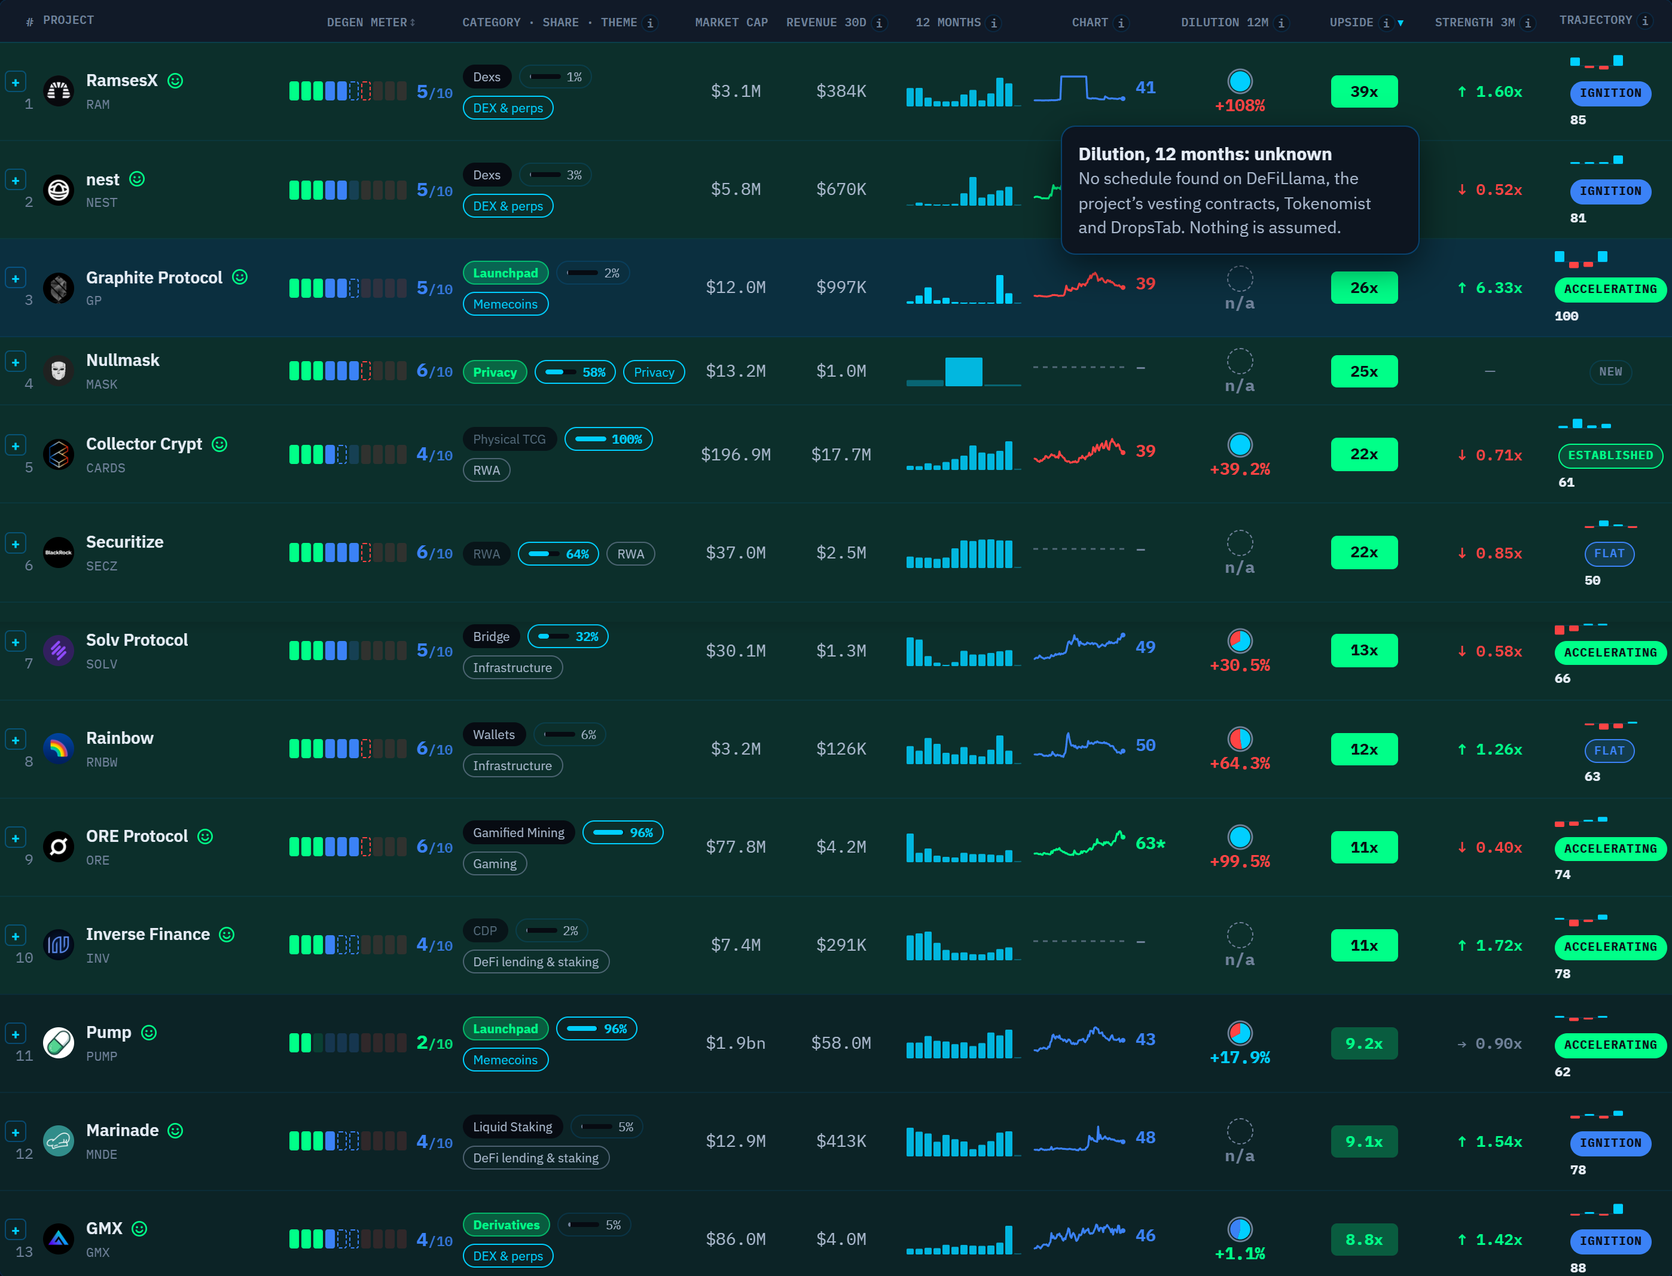
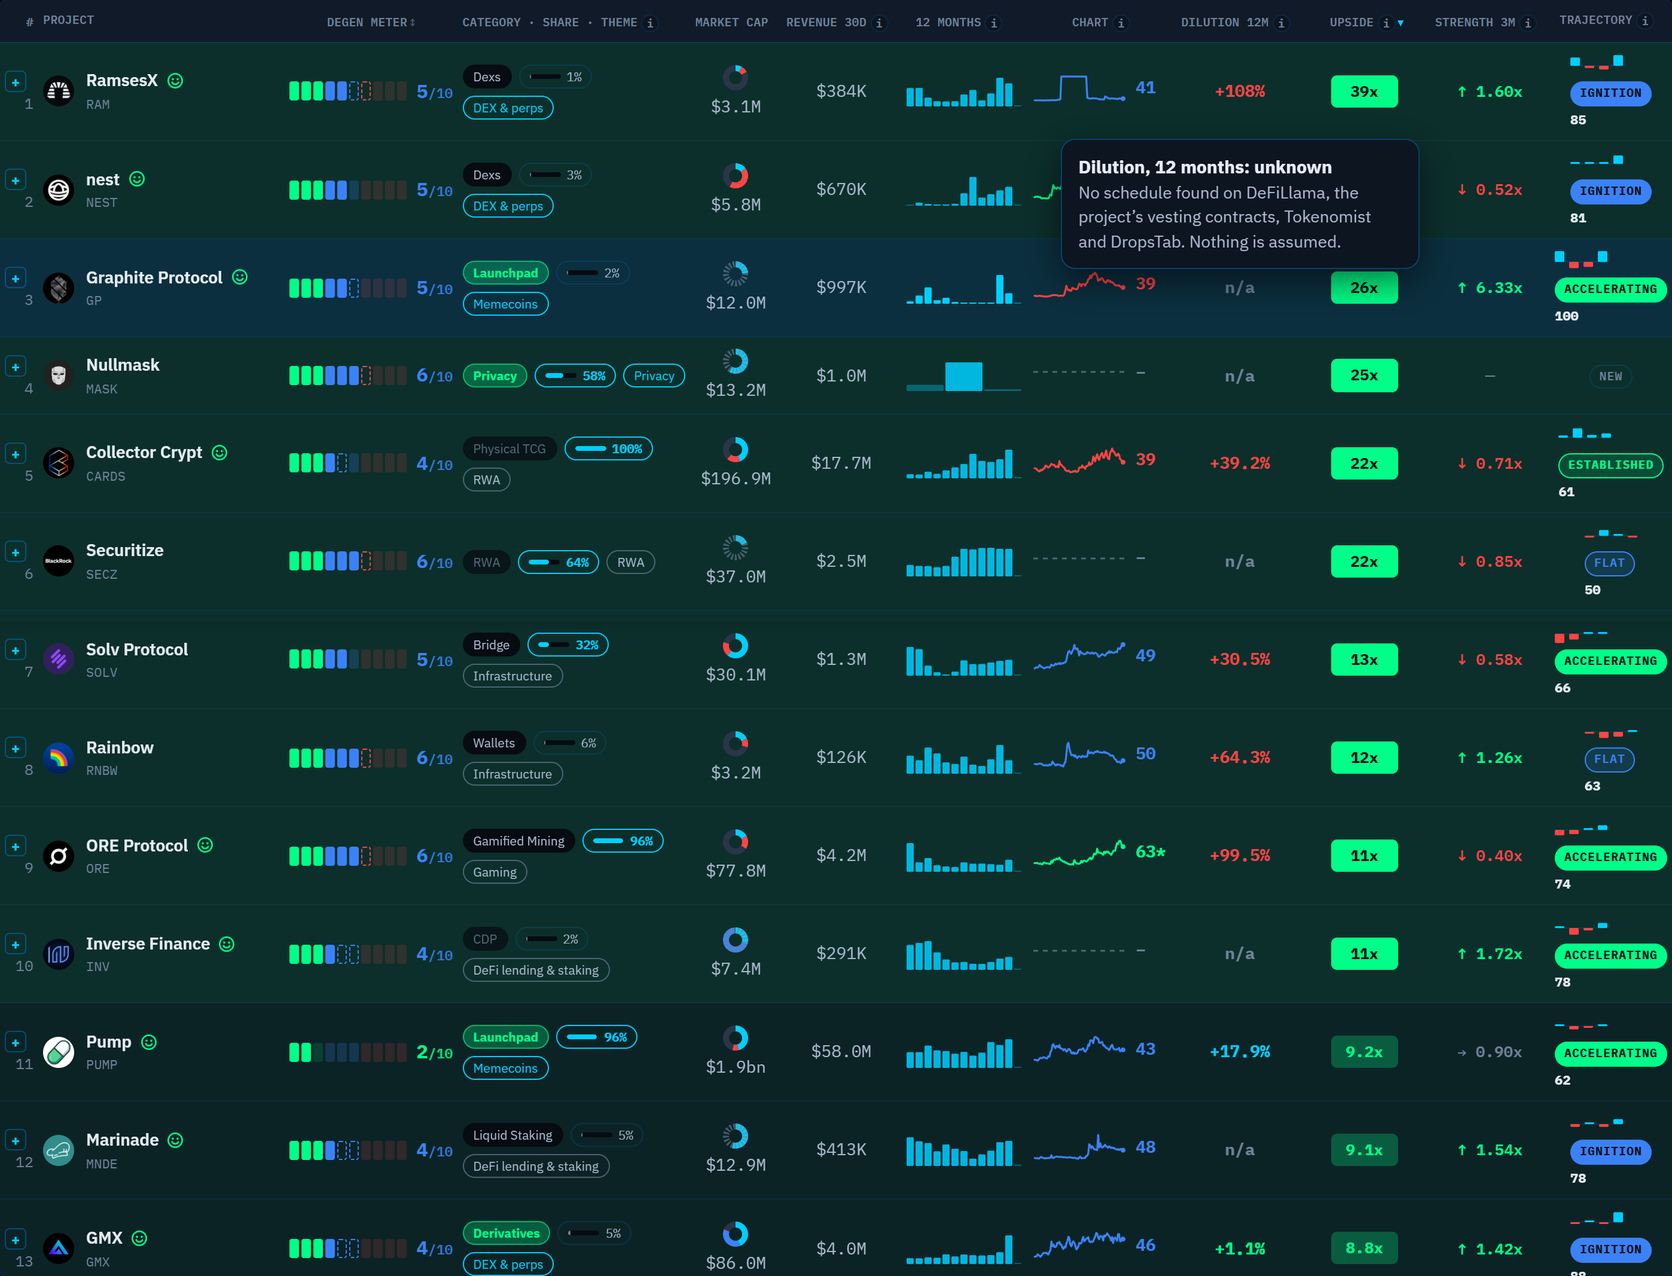
Supply Analyzer request, the operator's corrections: one pie of the whole supply in place of the three tiles, on the coin panel and on the Supply Analyzer page, which the local copy now draws; the same pie small in the Market Cap column, and Dilution 12M is its number alone. Three pictures. Not file

diff --git a/outbox/supply-analyzer-sources/patch_page.js b/outbox/supply-analyzer-sources/patch_page.js
@@ -1,0 +1,107 @@
+
+  // ---- The request on the Supply Analyzer page itself. Goes inside their script, before boot(). The same one pie as the Gem Screener's
+  // card, from the same record; the source named on Next unlock. Their socket is not proxied, so the record comes from their analyze GET.
+  var MOCK = window.SA_MOCK || {sources: {}, finished: {}, dropstab: {}, read: ''};
+  subscribe = function (push) {
+    try { history[push ? 'pushState' : 'replaceState'](null, '', urlFor()); } catch (e) {}
+    state.rec = null; state.idx = 0; state.series = null;
+    showState('Reading the sources', 'Supply, schedule, staking and buybacks are read from public feeds and the project\'s own pages. A token read before opens at once.');
+    var q = state.contract ? 'contract=' + encodeURIComponent(state.contract) + (state.chain ? '&chain=' + encodeURIComponent(state.chain) : '') : 'symbol=' + encodeURIComponent(state.sym);
+    fetch('/api/v1/supply-analyzer/analyze?' + q, {credentials: 'omit'})
+      .then(function (r) { return r.json(); })
+      .then(function (m) {
+        if (state.view === 'start') return;
+        live('on', 'live · last read ' + String(m.refreshed_at || '').slice(0, 10));
+        render(m);
+      })
+      .catch(function () { showProblem({code: 'UNKNOWN', title: 'Not read', message: 'The copy could not read this token.'}); });
+  };
+
+  function partsOf(rec) {
+    var T = rec.tiles || {}, c = T.circulating || {}, d = T.dilution_12m, sl = {};
+    (rec.slices_today || []).forEach(function (x) { sl[x.key] = x.amount || 0; });
+    var out = c.tokens || (sl.free || 0) + (sl.staked_free || 0) + (sl.staked_locked || 0);
+    var staked = Math.min((sl.staked_free || 0) + (sl.staked_locked || 0), out), kept = Math.min(sl.bb_kept || 0, out - staked), whole = c.of;
+    var slug = (rec.token || {}).slug, parts = [
+      {label: (rec.unknown_names || []).indexOf('staking') >= 0 ? 'In circulation' : 'Free to sell', v: out - staked - kept, c: '#00cfff'},
+      {label: 'Staked', v: staked, c: '#3b82f6'},
+      {label: 'Bought back, kept', v: kept, c: '#00ff88'}
+    ].filter(function (p) { return p.v > 0; });
+    if (!whole || whole <= out * 1.001) return {parts: parts, open: !whole};
+    var rest = whole - out;
+    if (d && typeof d.pct === 'number') {
+      var soon = Math.min(d.new_tokens_12m || 0, rest);
+      if (soon > 0) parts.push({label: 'Coming in 12 months', v: soon, c: '#ff4444'});
+      if (rest - soon > 0) parts.push({label: 'After that, or never issued', v: rest - soon, c: '#2a3648'});
+    } else {
+      parts.push({label: MOCK.finished[slug] ? 'Not out, schedule finished' : 'Not out yet, no schedule', v: rest, c: '#7f93ad', dashed: true});
+    }
+    return {parts: parts, open: false};
+  }
+  function pieTile(rec) {
+    var T = rec.tiles || {}, c = T.circulating || {}, f = T.fdv, d = T.dilution_12m, slug = (rec.token || {}).slug, sym = (rec.token || {}).symbol || '';
+    var P = partsOf(rec), total = P.parts.reduce(function (n, p) { return n + p.v; }, 0), R = 44, C = 2 * Math.PI * R, at = 0;
+    var arcs = P.parts.map(function (p) {
+      var len = C * p.v / total, gap = P.parts.length > 1 ? Math.min(1.5, len / 3) : 0;
+      var dash = p.dashed ? 'style="stroke-dasharray:3 3;opacity:.55"' : 'stroke-dasharray="' + (len - gap).toFixed(2) + ' ' + (C - len + gap).toFixed(2) + '"';
+      var arc = '<circle cx="60" cy="60" r="' + R + '" fill="none" stroke="' + p.c + '" stroke-width="15" ' + dash + ' stroke-dashoffset="' + (-at).toFixed(2) + '"/>';
+      at += len;
+      return arc;
+    }).join('');
+    var rows = P.parts.map(function (p) {
+      return '<li><i style="background:' + p.c + (p.dashed ? ';opacity:.55' : '') + '"></i><span>' + p.label + '</span><b>' + tok(p.v) + '</b></li>';
+    }).join('');
+    var pctOut = typeof c.pct === 'number' ? (c.pct >= 99.95 ? '100%' : c.pct.toFixed(1) + '%') : '–';
+    var fdv = f && f.market_cap_usd && f.fdv_usd ? '<div class="sa-fdv"><span>Market cap</span><b>' + usd(f.market_cap_usd) + '</b><span>FDV</span><b class="' + (f.x >= 3 ? 'v-bad' : f.x <= 1.5 ? 'v-good' : '') + '">' + usd(f.fdv_usd) + (typeof f.x === 'number' ? ' · ' + f.x.toFixed(1) + '×' : '') + '</b></div>' : '';
+    var done = MOCK.finished[slug], drop = MOCK.dropstab[slug], tbd = rec.unlocks_tbd, say = '', num = 'n/a', cls = 'v-na';
+    if (d && typeof d.pct === 'number') {
+      num = d.at_max ? '0%' : pct(d.pct, true);
+      cls = d.pct >= 25 ? 'v-bad' : d.pct < 5 ? 'v-good' : 'v-caution';
+      say = d.at_max ? 'Max supply is reached.' : tok(d.month_tokens) + ' new ' + sym + ' a month' + ((d.kinds || []).length ? ' · ' + d.kinds.join(' + ') : '') + (d.source ? ', to ' + d.until + '. Source: ' + d.source + ', read ' + MOCK.read + '.' : '');
+    } else if (done) {
+      say = 'The published schedule finished in ' + done + '.';
+    } else if (drop) {
+      say = 'Schedule found on DropsTab; the figure comes with the build.';
+    } else {
+      say = 'No schedule found on DeFiLlama, the project’s vesting contracts, Tokenomist and DropsTab. Nothing is assumed.';
+    }
+    var tile = el('div', 'sa-tile sa-pie sa-wide sa-on-page');
+    tile.setAttribute('data-k', 'circ');
+    tile.innerHTML = '<div class="sa-tk">Circulating, FDV, dilution</div><div class="sa-wrap"><div class="sa-ringbox"><svg viewBox="0 0 120 120" role="img">' + arcs + '</svg><div class="sa-center"><b>' + pctOut + '</b><span>is out</span></div></div>' +
+      '<div class="sa-side"><ul class="sa-legend">' + rows + '</ul>' + fdv + '<div class="sa-fdv"><span>Dilution, 12 months</span><b class="' + cls + '">' + num + '</b></div><p class="sa-note">' + say + '</p>' +
+      (P.open ? '<p class="sa-note">No max supply: what is still to come cannot be drawn.</p>' : '') + '</div></div>';
+    return tile;
+  }
+  var tilesAsServed = renderTiles;
+  renderTiles = function (rec) {
+    tilesAsServed(rec);
+    var box = $('saTiles'), first = box.querySelector('[data-k="circ"]');
+    if (first) box.replaceChild(pieTile(rec), first);
+    ['fdv', 'dil'].forEach(function (k) { var t = box.querySelector('[data-k="' + k + '"]'); if (t) t.remove(); });
+    box.classList.remove('sa-n2', 'sa-n3');
+    box.classList.add('sa-n' + box.children.length);
+    box.removeAttribute('data-n');
+    // the month chart below can't be redrawn here without the whole schedule: it says what the build does instead of "no schedule"
+    var found = ((rec.tiles || {}).dilution_12m || {}).source;
+    if (found) setTimeout(function () {
+      [].slice.call(document.querySelectorAll('.sa-out *')).forEach(function (n) {
+        if (n.children.length) return;
+        if (/No schedule published: no vesting schedule/.test(n.textContent)) n.textContent = 'Schedule from ' + found + ': with the build, the months ahead are drawn from it.';
+        else if (/no schedule published/i.test(n.textContent)) n.textContent = n.textContent.replace(/\s*[·-]?\s*no schedule published/i, ' · schedule from ' + found);
+      });
+    }, 0);
+  };
+  var nextAsServed = renderNext;
+  renderNext = function (rec) {
+    var T = rec.tiles || {}, nu = T.next_unlock_row || {}, slug = (rec.token || {}).slug;
+    if (nu.kind === 'unknown') {
+      var done = MOCK.finished[slug], drop = MOCK.dropstab[slug];
+      nu.why = done ? 'The published schedule finished in ' + done + '.' : drop ? 'Schedule found on DropsTab; the figure comes with the build.' : 'No schedule found on DeFiLlama, the project’s vesting contracts, Tokenomist and DropsTab. Nothing is assumed.';
+    }
+    nextAsServed(rec);
+    if (nu.source) $('saNext').appendChild(el('div', 'sa-src', 'Source: ' + nu.source + ', read ' + MOCK.read));
+    if (nu.kind === 'unknown') {
+      var line = [].slice.call($('saNext').querySelectorAll('*')).filter(function (n) { return !n.children.length && /No vesting or unlock schedule/.test(n.textContent); })[0];
+      if (line) line.textContent = nu.why;
+    }
+  };

diff --git a/outbox/supply-analyzer-sources/patch.js b/outbox/supply-analyzer-sources/patch.js
@@ -117,12 +117,12 @@
     const pct = typeof c.pct === 'number' ? c.pct : (whole ? 100 * out / whole : null);
     return pie(parts, pct === null ? esc(saTok(out)) : (pct >= 99.95 ? '100%' : pct.toFixed(1) + '%'), pct === null ? 'out' : 'is out', '', open ? 'No max supply: what is still to come cannot be drawn.' : '');
   }
-  function fdvPie(sp) {
+  // Market cap over FDV is circulating over the whole supply at one price: the same picture, so it is two lines under that pie
+  function fdvLines(sp) {
     const f = (sp.tiles || {}).fdv;
-    if (!f || !f.market_cap_usd || !f.fdv_usd) return pie([], 'n/a', '', 'v-na', 'No market cap stated.');
-    const cap = Math.min(f.market_cap_usd, f.fdv_usd), cls = saFdvCls(f.x);
-    return pie([{label: 'Market cap', v: cap, c: 'var(--accent)', shown: saUsd(f.market_cap_usd)},
-      {label: 'Rest of FDV', v: Math.max(f.fdv_usd - cap, 0), c: FILL[cls] || 'var(--line, #2a3648)', shown: saUsd(f.fdv_usd - cap)}], f.x.toFixed(1) + '×', 'FDV to cap', cls);
+    if (!f || !f.market_cap_usd || !f.fdv_usd) return '';
+    const cls = saFdvCls(f.x);
+    return `<div class="sa-fdv"><span>Market cap</span><b>${esc(saUsd(f.market_cap_usd))}</b><span>FDV</span><b class="${cls}">${esc(saUsd(f.fdv_usd))}${typeof f.x === 'number' ? ` · ${f.x.toFixed(1)}×` : ''}</b></div>`;
   }
   function dilPie(sp, e) {
     const d = saDil(sp), circ = ((sp.tiles || {}).circulating || {}).tokens, done = finished(e), drop = SA_MOCK.dropstab[e.slug];
@@ -154,10 +154,53 @@
       tile.classList.add('sa-pie');
       tile.insertAdjacentHTML('beforeend', inner + mark);
     };
-    fill('circ', circPie(sp), N(10));
-    fill('fdv', fdvPie(sp), '');
-    fill('dil', dilPie(sp, e), '');
+    // one pie: market cap over FDV is circulating over the whole supply, and dilution is the pie's red part over its blue
+    fill('circ', onePie(sp, e), N(10));
+    const head = box.querySelector('.satile[data-k="circ"] .sk');
+    if (head) head.textContent = 'Circulating, FDV, dilution';
+    ['fdv', 'dil'].forEach(k => { const t = box.querySelector(`.satile[data-k="${k}"]`); if (t) t.remove(); });
+    const wide = box.querySelector('.satile[data-k="circ"]');
+    if (wide) wide.classList.add('sa-wide');
+    const grid = box.querySelector('.satiles');
+    if (grid) { grid.classList.remove('n4'); grid.classList.add('sa-n' + grid.children.length); }
     return box.innerHTML;
+  };
+  function onePie(sp, e) {
+    const dil = dilPie(sp, e), note = (dil.match(/<p class="sa-note">([\s\S]*?)<\/p>/) || [])[1] || '';
+    const center = (dil.match(/<div class="sa-center ([^"]*)"><b>([^<]*)<\/b>/) || []);
+    const row = `<div class="sa-fdv"><span>Dilution, 12 months</span><b class="${center[1] || ''}">${center[2] || 'n/a'}</b></div>`;
+    const bits = circPie(sp).split('<ul class="sa-legend">');
+    return `<div class="sa-wrap">${bits[0]}<div class="sa-side"><ul class="sa-legend">${bits[1] || '</ul>'}${fdvLines(sp)}${row}${note ? `<p class="sa-note">${note}</p>` : ''}</div></div>`;
+  }
+
+  // ---- 4, 11 the pie moves to the Market Cap column; Dilution 12M is its number alone
+  const pieCell = supplyCell;
+  supplyCell = e => pieCell(e).replace(/<svg class="spie"[\s\S]*?<\/svg>/, '').replace('<span class="sa-ring" aria-hidden="true"></span>', '');
+  function miniPie(sp) {
+    const {parts} = donutParts(sp), total = parts.reduce((n, p) => n + p.v, 0), R = 8, C = 2 * Math.PI * R;
+    if (!total) return '';
+    let at = 0;
+    return `<svg class="sa-mini" viewBox="0 0 22 22" width="22" height="22" aria-hidden="true">` + parts.map(p => {
+      const len = C * p.v / total;
+      const dash = p.dashed ? 'style="stroke-dasharray:1.5 1.5;opacity:.6"' : `stroke-dasharray="${len.toFixed(2)} ${(C - len).toFixed(2)}"`;
+      const arc = `<circle cx="11" cy="11" r="${R}" fill="none" stroke="${p.c}" stroke-width="5" ${dash} stroke-dashoffset="${(-at).toFixed(2)}"/>`;
+      at += len;
+      return arc;
+    }).join('') + '</svg>';
+  }
+  const listWithoutPie = renderList;
+  renderList = function () {
+    listWithoutPie();
+    const at = cols().findIndex(c => c.key === 'mcap');
+    if (at < 0) return;
+    document.querySelectorAll(`#${isChainsView() ? 'tbl-chains' : 'tbl-apps'} tbody tr[data-id]`).forEach(tr => {
+      const e = findEntity(tr.dataset.id), sp = e && supplyOf(e), td = tr.children[at];
+      if (!sp || !td || td.querySelector('.sa-capcell')) return;
+      const c = (sp.tiles || {}).circulating || {}, f = (sp.tiles || {}).fdv || {};
+      const say = [typeof c.pct === 'number' ? (c.pct >= 99.95 ? '100' : c.pct.toFixed(1)) + '% of the supply is out.' : '',
+        f.fdv_usd ? `FDV ${saUsd(f.fdv_usd)}${typeof f.x === 'number' ? ', ' + f.x.toFixed(1) + '× the market cap' : ''}.` : ''].filter(Boolean).join(' ');
+      td.innerHTML = `<span class="sa-capcell tipme"${tipAttrs('Market cap ' + td.textContent.trim(), say || 'No supply figures.')}>${miniPie(sp)}<span>${td.innerHTML}${N(11)}</span></span>`;
+    });
   };
 
   // ---- the box: where each one is. Ours only, it never goes in a picture for them
@@ -187,7 +230,9 @@
     [6, 'Column: Jupiter, schedule finished', () => inApps('jupiter')],
     [7, 'Column: where it looked', () => inApps(firstNone())],
     [8, 'Column: Lombard reads its schedule', () => inApps('lombard')],
-    [10, 'Supply card: three pies in place of the tiles', () => { setView('start'); openPanel((APPS.find(a => a.slug === 'up') || {}).key); setTimeout(() => flash(document.querySelector('#panel #supplyCard')), 1500); }],
+    [11, 'Market Cap column: the same pie, small', () => { closeIt(); setView('apps'); setTimeout(() => flash(document.querySelector('.sa-capcell')), 300); }],
+    [12, 'The Supply Analyzer page itself', () => { location.href = '/supply-analyzer?symbol=collector-crypt'; }],
+    [10, 'Supply card: one pie in place of three tiles', () => { setView('start'); openPanel((APPS.find(a => a.slug === 'up') || {}).key); setTimeout(() => flash(document.querySelector('#panel #supplyCard')), 1500); }],
   ];
   setTimeout(() => {
     const box = document.createElement('aside');

diff --git a/outbox/supply-analyzer-sources/patch.css b/outbox/supply-analyzer-sources/patch.css
@@ -20,6 +20,26 @@ body.gt-clean .gt-n, body.gt-clean #gtTour { display: none !important; }
 .sa-legend b { font: 600 12px/1.25 "IBM Plex Mono", var(--mono, monospace); color: var(--ink); white-space: nowrap; }
 .satile.sa-pie p.sa-note { margin: 8px 0 0; font-size: 11px; line-height: 1.3; color: var(--muted); }
 .satile.sa-pie > .gt-n { position: absolute; top: 8px; right: 6px; }
+.sa-fdv { display: grid; grid-template-columns: minmax(0, 1fr) auto; gap: 5px 8px; margin-top: 10px; padding-top: 9px; border-top: 1px solid var(--rule, rgba(255, 255, 255, .08)); font-size: 12px; color: var(--muted); }
+.sa-fdv b { font: 600 12px/1.25 "IBM Plex Mono", var(--mono, monospace); color: var(--ink); text-align: right; white-space: nowrap; }
+.sa-fdv b.v-bad { color: var(--bad); }
+.sa-fdv b.v-good { color: var(--good); }
+.sa-fdv + .sa-fdv { margin-top: 5px; padding-top: 0; border-top: 0; }
+.sa-fdv b.v-caution { color: var(--band-blue); }
+.sa-fdv b.v-na { color: var(--muted); }
+.sa-wrap { display: flex; flex-wrap: wrap; align-items: center; gap: 12px 24px; }
+.sa-wrap .sa-ringbox { margin: 8px 0; width: 132px; height: 132px; }
+.sa-side { flex: 1 1 220px; min-width: 0; }
+.sa-capcell { display: inline-flex; flex-direction: column; align-items: center; gap: 3px; }
+.sa-capcell .sa-mini { display: block; transform: rotate(-90deg); }
+@media (min-width: 701px) {
+  .satiles.sa-n2, #saTiles.sa-n2 { grid-template-columns: 2.6fr 1fr; }
+  .satiles.sa-n3, #saTiles.sa-n3 { grid-template-columns: 2.4fr 1fr 1fr; }
+}
+/* the Supply Analyzer page has its own variables */
+.sa-on-page { --ink: #e6edf7; --muted: #7f93ad; --bad: #ff4444; --good: #00ff88; --accent: #00cfff; --band-blue: #3b82f6; --rule: rgba(255, 255, 255, .08); }
+.sa-tile.sa-on-page p.sa-note { margin: 8px 0 0; font-size: 12px; line-height: 1.35; color: var(--muted); }
+.sa-tile.sa-pie { min-width: 0; }
 .gt-line { margin: 6px 0 12px; font-size: 13px; color: var(--muted); }
 .gt-line b { color: var(--ink); font-weight: 600; }
 #gtTour { position: fixed; right: 14px; bottom: 14px; z-index: 99999; width: 320px; max-height: 76vh; overflow: auto; background: #0a0e17; border: 1px solid rgba(0, 207, 255, .5);

diff --git a/outbox/supply-analyzer-sources/serve.py b/outbox/supply-analyzer-sources/serve.py
@@ -90,6 +90,26 @@ def page(path: str) -> bytes:
     return html.replace(GO, code + "\n" + GO, 1).encode("utf-8")
 
 
+def supply_page(path: str) -> bytes:
+    """Their Supply Analyzer page, with our data and stylesheet; its script comes through supply_script()."""
+    status, _, body, _ = fetch(path)
+    if status != 200:
+        raise RuntimeError(f"{path} -> HTTP {status}")
+    v = str(int(time.time()))
+    head = f'<script>window.SA_MOCK = {json.dumps(DATA)};</script><link rel="stylesheet" href="/_sa/patch.css?v={v}">\n</head>'
+    return body.decode("utf-8").replace("</head>", head, 1).encode("utf-8")
+
+
+def supply_script(path: str) -> bytes:
+    """Their page script with patch_page.js inside it, before its first read."""
+    status, _, body, _ = fetch(path)
+    if status != 200:
+        raise RuntimeError(f"{path} -> HTTP {status}")
+    js = body.decode("utf-8")
+    at = js.rindex("boot();")
+    return (js[:at] + (HERE / "patch_page.js").read_text(encoding="utf-8") + "\n  " + js[at:]).encode("utf-8")
+
+
 class Handler(BaseHTTPRequestHandler):
     def send(self, code, ctype, body, headers=None):
         self.send_response(code)
@@ -113,6 +133,10 @@ class Handler(BaseHTTPRequestHandler):
             return
         if bare == "/gem-screener/app":
             return self.send(200, "text/html; charset=utf-8", page(self.path))
+        if bare == "/supply-analyzer":
+            return self.send(200, "text/html; charset=utf-8", supply_page(self.path))
+        if bare == "/static/js/supply-analyzer.js":
+            return self.send(200, "text/javascript; charset=utf-8", supply_script(self.path))
         if bare.startswith("/_sa/") and bare[5:] in OWN:
             return self.send(200, OWN[bare[5:]], (HERE / bare[5:]).read_bytes())
         status, ctype, body, headers = fetch(self.path)

diff --git a/outbox/supply-analyzer-sources/render.py b/outbox/supply-analyzer-sources/render.py
@@ -31,5 +31,12 @@ with sync_playwright() as p:
     t.mouse.move(2, 2)
     t.wait_for_timeout(1000)
     t.locator("#supplyCard").screenshot(path=str(HERE / "picture-2-supply-card.png"))
+
+    t.goto("http://127.0.0.1:8804/supply-analyzer?symbol=collector-crypt", wait_until="load", timeout=120000)
+    t.wait_for_selector("#saTiles .sa-pie", timeout=90000)
+    t.wait_for_timeout(2500)
+    head, foot = t.locator("#saHead").bounding_box(), t.locator(".sa-out").bounding_box()
+    t.screenshot(path=str(HERE / "picture-3-supply-analyzer.png"), full_page=True,
+                 clip={"x": max(0, head["x"] - 16), "y": head["y"] - 12, "width": head["width"] + 32, "height": foot["y"] + foot["height"] - head["y"] + 24})
     b.close()
 print("rendered")

diff --git a/outbox/supply-analyzer-sources/README.md b/outbox/supply-analyzer-sources/README.md
@@ -2,11 +2,11 @@
 
 Asked for by the operator on 2026-11-02, in their words: *"podej to jako spec na vylepseni supply analyzera a zatim tam dopis at upravi to zobrazeni v tom sloupci v gem screeneru"* (spelling tidied).
 
-**Open:** `python outbox/supply-analyzer-sources/serve.py`, then http://127.0.0.1:8804/gem-screener/app. Their live page through a GET-only proxy, with `patch.js` inside its script and `data.json` (from `build_data.py`) laid on their Supply batch, so the column, card and gate read it. The Supply Analyzer page itself is passed through, not redrawn.
+**Open:** `python outbox/supply-analyzer-sources/serve.py`, then http://127.0.0.1:8804/gem-screener/app and http://127.0.0.1:8804/supply-analyzer?symbol=collector-crypt. Their live pages through a GET-only proxy, with `patch.js` and `patch_page.js` inside their scripts and `data.json` (from `build_data.py`) laid on their Supply records, so the columns, card, page and gate read it. The Supply Analyzer page's month chart is not redrawn: it says what the build will do.
 
-`render.py` redraws picture 1 from their live page.
+`render.py` redraws the three pictures from the running copy.
 
-**request.txt:** about 4,450 of 8,000 characters, 26 of 40 lines, 2 of 6 pictures. Followed form: ET-31267, whose line "DeFiLlama only for the future unlock schedule" this replaces.
+**request.txt:** 5,227 of 8,000 characters, 28 of 40 lines, 3 of 6 pictures. Followed form: ET-31267, whose line "DeFiLlama only for the future unlock schedule" this replaces.
 
 | | |
 |---|---|
